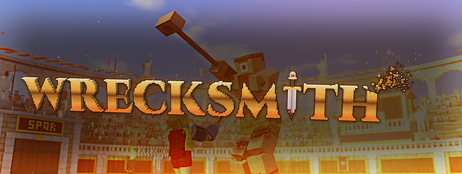
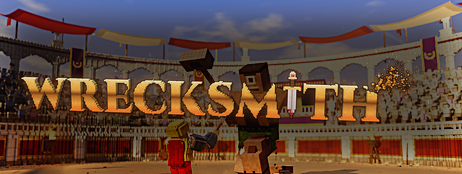
Capsules from the current build, in a clearer, darker light
The store art was too bright and warm: an orange glow over every frame,
and the detail lost in it. Every capsule, feature banner and key-art
frame is rendered again from the current build (velarium, banners, the
new crowd, stone and sand).

- New "late" look for the art: a whiter sun a little lower than
  before, no bloom, next to no haze, the exposure down. Over the
  capsules it is about 20-30% darker, the warm cast is down from up to
  +0.49 to at most +0.33 (red minus blue), and the contrast is up.
- The giant stands in the "across" guard: the haft held across him,
  his face and eye clear of his hands. Raised high, his arm hid his
  face.
- New frames picked: giant wide 1 and tall 1, the lion tall 1 (the
  lion whole, not cut off at the edge), squad wide 1 (no blurred wolf
  across the foreground).
- capsuleart.gd: LOOKS (clear, dim, late, old) with CAPS_LOOKS to shoot
  a framing in several looks; POSES with CAPS_POSE and CAPS_TRY_POSES
  to preview the giant's guards. "late" and "across" are the defaults.

Claude-Session: https://claude.ai/code/session_0169vQt8Mdc9kco4Ktq1HqZ7

diff --git a/tools/make_capsules.py b/tools/make_capsules.py
@@ -1,7 +1,7 @@
 #!/usr/bin/env python3
 """Every Steam capsule and store graphic for WRECKSMITH, from the key-art frames rendered by the
 game itself (tests/capsuleart.gd: staged scenes of the current build frozen at the blow and drawn
-large, with a low sun, haze and depth of field) and the voxel logo (tools/make_logo.py).
+large, in clear afternoon light with depth of field) and the voxel logo (tools/make_logo.py).
 
 Each frame is graded like a film still (contrast, warm highlights, cool shadows, a vignette) and
 cropped to the capsule around its subject; the logo sits on a soft dark ground so it reads at the
